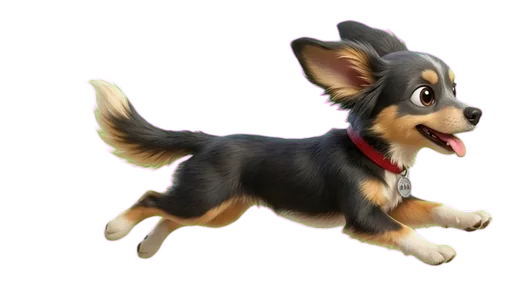
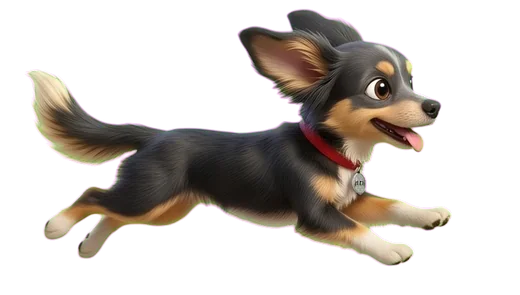
Ava run cycle: 8 frames from one 2K sheet, aligned on the body centre; gen_image.py takes --size
Claude-Session: https://claude.ai/code/session_01WTRsusrWVvhgPmoS2dn3Kh

diff --git a/js/ava.js b/js/ava.js
@@ -1,18 +1,19 @@
 // Ava, the family dog: AI-rendered sprites (img/ava/*.webp, made from her photos with the character-sprites skill).
 // PG.ava.draw(ctx, x, y, size, {pose, t, dir, alpha}) draws her standing on the point (x, y);
 // `size` is her body length in CSS px, so every pose shows the same dog at the same scale.
-// Poses: sit, happy (sitting, tongue out), stand, sniff, stalk, jump, scared, sleep, run / walk (4 frames).
+// Poses: sit, happy (sitting, tongue out), stand, sniff, stalk, jump, scared, sleep, run / walk (8-frame gallop).
 // The sprites are still images, so life comes from small procedural motion: breathing, bobbing, trembling.
 (function () {
 'use strict';
 const PG = window.PG;
 const V = typeof BUILD !== 'undefined' ? BUILD : '1';
 // per sprite: body length in source px (chest to rump, without the tail) and where her feet are (fraction of height)
+const R = { body: 182, foot: 0.93 };
 const META = {
   sit: { body: 310, foot: 0.97 }, happy: { body: 300, foot: 0.98 }, stand: { body: 300, foot: 0.97 },
   sniff: { body: 290, foot: 0.95 }, stalk: { body: 300, foot: 0.96 }, jump: { body: 330, foot: 0.98 },
   scared: { body: 360, foot: 0.96 }, sleep: { body: 420, foot: 0.97 },
-  run0: { body: 220, foot: 0.95 }, run1: { body: 220, foot: 0.95 }, run2: { body: 220, foot: 0.95 }, run3: { body: 220, foot: 0.95 }
+  run0: R, run1: R, run2: R, run3: R, run4: R, run5: R, run6: R, run7: R
 };
 const FILE = {};
 const IMG = {};
@@ -27,8 +28,8 @@ function draw(ctx, x, y, size, o = {}) {
   const t = o.t || 0, pose = o.pose || 'stand', dir = o.dir || 1;
   let name = pose, dy = 0, dx = 0, sx = 1, sy = 1, rot = 0;
   switch (pose) {
-    case 'run': { const f = Math.floor(t * 11) % 4; name = 'run' + f; dy = -Math.abs(Math.sin(t * 11 * Math.PI / 4)) * size * 0.05; break; }
-    case 'walk': { const f = Math.floor(t * 6) % 4; name = 'run' + f; dy = -Math.abs(Math.sin(t * 6 * Math.PI / 4)) * size * 0.02; break; }
+    case 'run': { const f = Math.floor(t * 18) % 8; name = 'run' + f; break; }
+    case 'walk': { const f = Math.floor(t * 10) % 8; name = 'run' + f; break; }
     case 'jump': dy = -Math.abs(Math.sin(t * 5)) * size * 0.28; rot = Math.sin(t * 10) * 0.04; break;
     case 'scared': dx = Math.sin(t * 55) * size * 0.006; sy = 0.98 + Math.sin(t * 3) * 0.01; break;
     case 'sniff': rot = Math.sin(t * 9) * 0.015; dx = Math.sin(t * 1.3) * size * 0.02; break;

diff --git a/.claude/skills/character-sprites/scripts/gen_image.py b/.claude/skills/character-sprites/scripts/gen_image.py
@@ -1,7 +1,7 @@
 #!/usr/bin/env python3
 """Generate or edit an image with Gemini image models (Nano Banana) using reference images.
 
-usage: gen_image.py --out out.png --prompt "..." [--ref a.jpg --ref b.webp ...] [--model gemini-3-pro-image] [--aspect 1:1]
+usage: gen_image.py --out out.png --prompt "..." [--ref a.jpg --ref b.webp ...] [--model gemini-3-pro-image] [--aspect 1:1] [--size 2K]
 The API key is read from GEMINI_API_KEY or from the file named by GEMINI_API_KEY_FILE. Never commit keys.
 """
 import argparse, base64, json, mimetypes, os, sys, urllib.request
@@ -13,6 +13,7 @@ def main():
     ap.add_argument('--ref', action='append', default=[])
     ap.add_argument('--model', default='gemini-3-pro-image')
     ap.add_argument('--aspect', default='1:1')
+    ap.add_argument('--size', default=None, help='1K, 2K or 4K (pro models)')
     a = ap.parse_args()
     key = os.environ.get('GEMINI_API_KEY') or open(os.environ['GEMINI_API_KEY_FILE']).read().strip()
     parts = []
@@ -22,7 +23,7 @@ def main():
         parts.append({'inline_data': {'mime_type': mt, 'data': base64.b64encode(open(r, 'rb').read()).decode()}})
     parts.append({'text': a.prompt})
     body = {'contents': [{'role': 'user', 'parts': parts}],
-            'generationConfig': {'responseModalities': ['IMAGE', 'TEXT'], 'imageConfig': {'aspectRatio': a.aspect}}}
+            'generationConfig': {'responseModalities': ['IMAGE', 'TEXT'], 'imageConfig': dict({'aspectRatio': a.aspect}, **({'imageSize': a.size} if a.size else {}))}}
     req = urllib.request.Request(f'https://generativelanguage.googleapis.com/v1beta/models/{a.model}:generateContent',
                                  data=json.dumps(body).encode(), headers={'Content-Type': 'application/json', 'x-goog-api-key': key})
     try:
